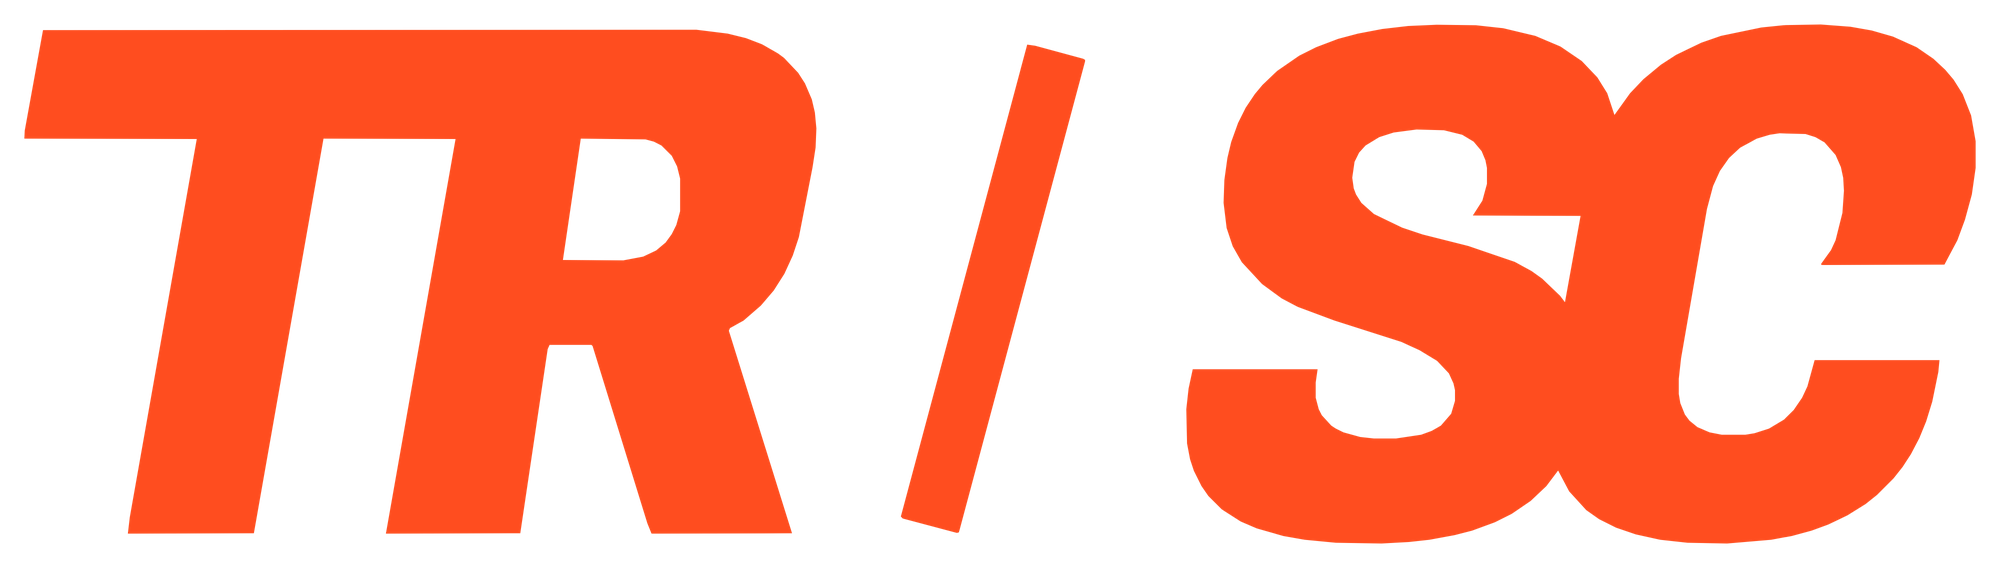
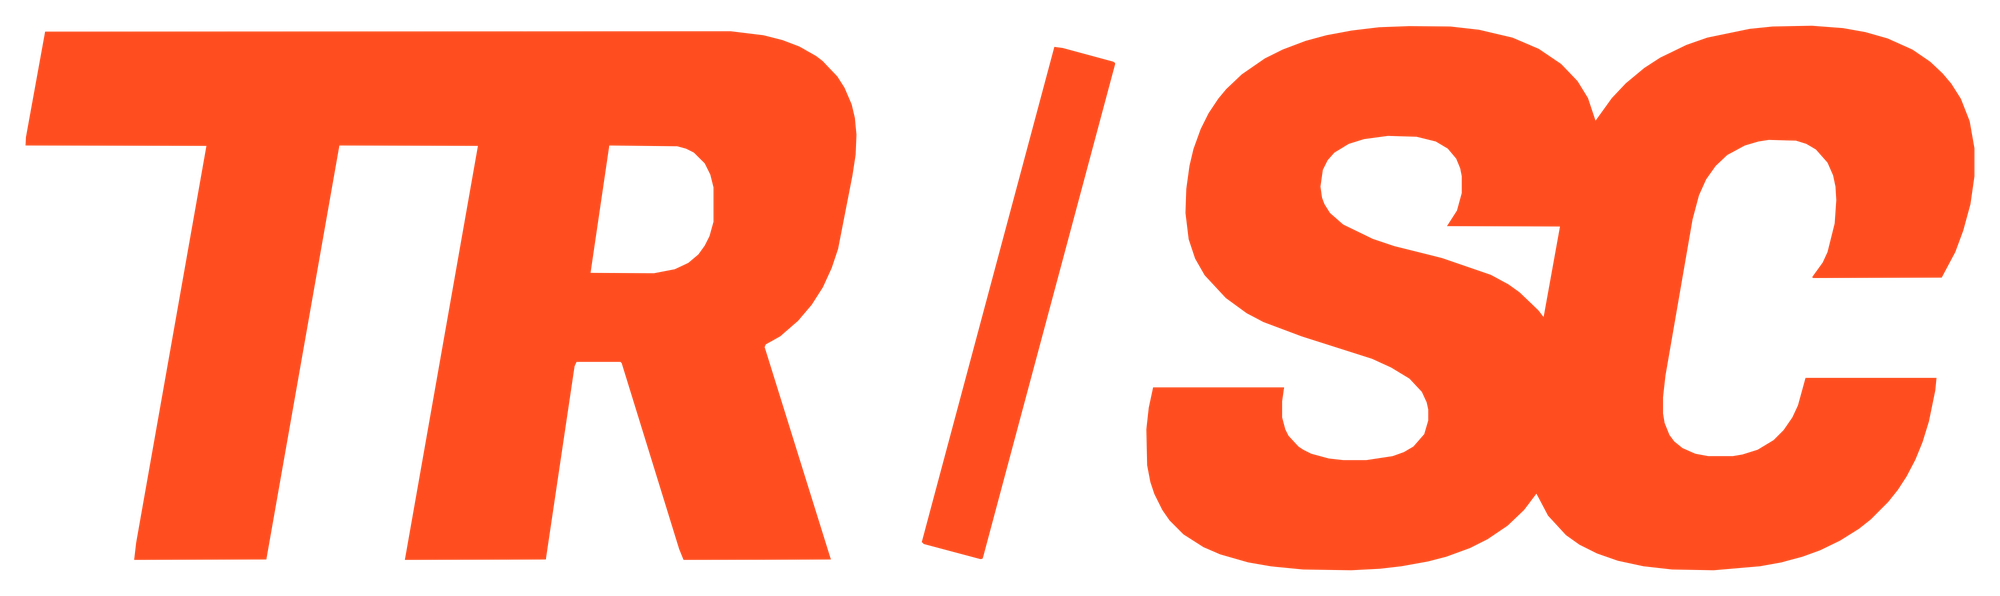
Correct the monogram's slash kerning to match the design source
Diffing the generated assets against a fresh PNG export from the design
tool showed a 5.46% aspect mismatch. Profiling both at a common height
isolated the cause: the letterforms are identical (TR 611 vs 612px, slash
139 vs 142, SC 608 vs 610, all within antialiasing), but the supplied SVG
had lost the kerning around the slash. Gaps measured 65 and 78px against
the source's 48 and 23.

Fixed by translating the slash and SC subpaths in x only, by -7.29 and
-30.74 units, so no letterform is reshaped. Aspect delta is now 0.217%
and the gaps land within 1px of the source. viewBox re-tightened to keep
the designer's 8-unit margin, so PNGs are 2000x596.

Also amends the LOGO principle, which read "NO ICON. THE NAME DOES THE
WORK." That is still true of pictorial icons but read oddly next to a new
compact mark.

diff --git a/brand.html b/brand.html
@@ -1120,8 +1120,8 @@
              the two match. fill-rule="evenodd" is required or the counters
              in the R and S fill solid. -->
         <div class="monogram-large">
-          <svg viewBox="45.5 70.63 656.88 186.5" role="img" aria-label="TR slash SC monogram" xmlns="http://www.w3.org/2000/svg">
-            <path fill="currentColor" fill-rule="evenodd" d="M517.38 78.75L530.25 78.88L539.25 79.88L549.75 82.38L558 85.88L565 90.63L570.13 96L573.38 101.25L575.75 108.38L580.88 101.25L585.25 96.63L591 91.88L596 88.63L604.25 84.63L610.75 82.38L624 79.63L631.25 78.88L643.5 78.63L653.25 79.38L660.25 80.63L667.25 82.63L675 86.13L680.5 89.88L684.38 93.5L687.13 96.75L690.13 101.5L692.88 108.5L694.38 117L694.38 125.75L693.13 134.5L690.88 142.75L688.38 149.5L684.13 157.5L643.75 157.63L643.63 157.25L646.88 152.75L648.38 149.5L650.63 140.5L651.13 133.25L650.88 129L650.13 125.5L648.38 121.5L644.75 117.38L641.75 115.63L638.5 114.63L630 114.38L626.75 114.88L622.5 116.13L617 119.13L613.38 122.5L610.38 126.75L608.13 131.75L606.13 139.25L597.63 188.25L596.88 195L596.88 200L597.38 203L598.88 206.75L600.38 208.75L603 210.88L607 212.63L611 213.38L618.75 213.38L621.75 212.88L626.5 211.38L631.5 208.38L634.63 205.25L637.38 201.25L639.13 197.5L641.5 188.88L682.5 188.88L682.13 192.75L680.13 202.5L678.13 209L675.88 214.5L673.13 219.75L670.38 224L667.38 227.75L662 233.13L658.25 236.13L652.25 239.88L646 242.88L640.5 244.88L634 246.63L627.25 247.88L612.75 249.13L599.75 248.88L590.75 247.88L582.75 246.13L576.25 243.88L570.75 241.13L566.5 238.13L560.88 232L557.25 225.13L553.38 230.25L548.25 235.13L542 239.38L536.5 242.13L529 244.88L523.25 246.38L515 247.88L508.25 248.63L499.25 249.13L484.25 248.88L474 247.88L467 246.63L458.25 244.13L453 241.88L446.75 237.88L442.38 233.5L440.13 230.25L437.63 225.25L436.38 221.5L435.38 216.25L435.13 205L435.88 198.25L437.25 191.88L478.25 191.88L477.63 196.25L477.63 201.25L478.63 205L479.63 207L482.75 210.38L484.25 211.38L486.75 212.63L492.25 214.13L496.75 214.63L504 214.63L512.25 213.38L515.75 212.13L518.75 210.38L522.13 206.5L523.38 202.25L523.38 198.75L522.88 196.5L521.38 193.25L517.5 189.13L511.75 185.63L505.75 182.88L483.75 175.88L471.75 171.38L466.5 168.63L460 163.88L453.38 156.75L450.38 151.5L448.38 145.5L447.38 137.25L447.63 129.75L448.63 122.5L449.88 117.25L452.13 111L454.63 106L457.63 101.5L460.13 98.5L465 93.88L472.25 88.88L477.75 86.13L485 83.38L491.5 81.63L499.5 80.13L508 79.13ZM59.63 80.5L274.25 80.38L284.5 81.63L290.5 83.13L295.75 85.13L301 88.13L303 89.63L307.63 94.5L309.88 98L312.13 103.25L313.13 107.5L313.63 112.75L313.38 119L312.38 125.5L307.88 148.5L305.88 154.5L303.13 160.5L299.63 166L295.38 171L289.75 175.88L285.25 178.38L284.88 179.25L305.63 245.75L259.5 245.88L258.13 242.5L240.13 184.25L239.75 183.88L226 183.88L225.38 185.25L216.38 245.75L172.25 245.88L195.13 116.25L151.75 116.13L128.88 245.75L87.5 245.88L88.13 240.5L110.13 116.25L53.5 116.13L53.63 113.5ZM382.88 85.25L385.5 85.63L401.25 89.88L401.88 90.25L401.88 90.75L360.63 244.75L360.38 245.5L359.75 245.63L342 240.88L341.38 240.25ZM510.75 113.13L503.25 114.13L498.5 115.63L494 118.38L491.88 120.75L490.38 123.75L489.63 129L490.13 132.5L490.88 134.5L492.63 137.25L496.75 140.88L506 145.38L512.75 147.63L527.75 151.38L543 156.63L548.5 159.63L552 162.13L557.88 167.75L559.5 169.88L564.63 141.5L529.25 141.38L532.38 136.5L533.88 131L533.88 125.75L533.38 123.25L532.13 120.25L529.5 117.13L525.75 114.88L519.75 113.38ZM236.25 116.13L230.38 156L250.25 156.13L256.75 154.88L261 152.88L264.13 150.25L266.13 147.5L267.63 144.5L268.88 140L268.88 129.25L267.88 125.25L266.13 121.75L262.75 118.38L260.25 117.13L257.5 116.38Z"/>
+          <svg viewBox="45.5 70.63 626.14 186.5" role="img" aria-label="TR slash SC monogram" xmlns="http://www.w3.org/2000/svg">
+            <path fill="currentColor" fill-rule="evenodd" d="M486.64 78.75L499.51 78.88L508.51 79.88L519.01 82.38L527.26 85.88L534.26 90.63L539.39 96L542.64 101.25L545.01 108.38L550.14 101.25L554.51 96.63L560.26 91.88L565.26 88.63L573.51 84.63L580.01 82.38L593.26 79.63L600.51 78.88L612.76 78.63L622.51 79.38L629.51 80.63L636.51 82.63L644.26 86.13L649.76 89.88L653.64 93.5L656.39 96.75L659.39 101.5L662.14 108.5L663.64 117L663.64 125.75L662.39 134.5L660.14 142.75L657.64 149.5L653.39 157.5L613.01 157.63L612.89 157.25L616.14 152.75L617.64 149.5L619.89 140.5L620.39 133.25L620.14 129L619.39 125.5L617.64 121.5L614.01 117.38L611.01 115.63L607.76 114.63L599.26 114.38L596.01 114.88L591.76 116.13L586.26 119.13L582.64 122.5L579.64 126.75L577.39 131.75L575.39 139.25L566.89 188.25L566.14 195L566.14 200L566.64 203L568.14 206.75L569.64 208.75L572.26 210.88L576.26 212.63L580.26 213.38L588.01 213.38L591.01 212.88L595.76 211.38L600.76 208.38L603.89 205.25L606.64 201.25L608.39 197.5L610.76 188.88L651.76 188.88L651.39 192.75L649.39 202.5L647.39 209L645.14 214.5L642.39 219.75L639.64 224L636.64 227.75L631.26 233.13L627.51 236.13L621.51 239.88L615.26 242.88L609.76 244.88L603.26 246.63L596.51 247.88L582.01 249.13L569.01 248.88L560.01 247.88L552.01 246.13L545.51 243.88L540.01 241.13L535.76 238.13L530.14 232L526.51 225.13L522.64 230.25L517.51 235.13L511.26 239.38L505.76 242.13L498.26 244.88L492.51 246.38L484.26 247.88L477.51 248.63L468.51 249.13L453.51 248.88L443.26 247.88L436.26 246.63L427.51 244.13L422.26 241.88L416.01 237.88L411.64 233.5L409.39 230.25L406.89 225.25L405.64 221.5L404.64 216.25L404.39 205L405.14 198.25L406.51 191.88L447.51 191.88L446.89 196.25L446.89 201.25L447.89 205L448.89 207L452.01 210.38L453.51 211.38L456.01 212.63L461.51 214.13L466.01 214.63L473.26 214.63L481.51 213.38L485.01 212.13L488.01 210.38L491.39 206.5L492.64 202.25L492.64 198.75L492.14 196.5L490.64 193.25L486.76 189.13L481.01 185.63L475.01 182.88L453.01 175.88L441.01 171.38L435.76 168.63L429.26 163.88L422.64 156.75L419.64 151.5L417.64 145.5L416.64 137.25L416.89 129.75L417.89 122.5L419.14 117.25L421.39 111L423.89 106L426.89 101.5L429.39 98.5L434.26 93.88L441.51 88.88L447.01 86.13L454.26 83.38L460.76 81.63L468.76 80.13L477.26 79.13ZM59.63 80.5L274.25 80.38L284.5 81.63L290.5 83.13L295.75 85.13L301 88.13L303 89.63L307.63 94.5L309.88 98L312.13 103.25L313.13 107.5L313.63 112.75L313.38 119L312.38 125.5L307.88 148.5L305.88 154.5L303.13 160.5L299.63 166L295.38 171L289.75 175.88L285.25 178.38L284.88 179.25L305.63 245.75L259.5 245.88L258.13 242.5L240.13 184.25L239.75 183.88L226 183.88L225.38 185.25L216.38 245.75L172.25 245.88L195.13 116.25L151.75 116.13L128.88 245.75L87.5 245.88L88.13 240.5L110.13 116.25L53.5 116.13L53.63 113.5ZM375.59 85.25L378.21 85.63L393.96 89.88L394.59 90.25L394.59 90.75L353.34 244.75L353.09 245.5L352.46 245.63L334.71 240.88L334.09 240.25ZM480.01 113.13L472.51 114.13L467.76 115.63L463.26 118.38L461.14 120.75L459.64 123.75L458.89 129L459.39 132.5L460.14 134.5L461.89 137.25L466.01 140.88L475.26 145.38L482.01 147.63L497.01 151.38L512.26 156.63L517.76 159.63L521.26 162.13L527.14 167.75L528.76 169.88L533.89 141.5L498.51 141.38L501.64 136.5L503.14 131L503.14 125.75L502.64 123.25L501.39 120.25L498.76 117.13L495.01 114.88L489.01 113.38ZM236.25 116.13L230.38 156L250.25 156.13L256.75 154.88L261 152.88L264.13 150.25L266.13 147.5L267.63 144.5L268.88 140L268.88 129.25L267.88 125.25L266.13 121.75L262.75 118.38L260.25 117.13L257.5 116.38Z"/>
           </svg>
         </div>
         <div class="wordmark-meta">TR/SC &middot; THE COMPACT MARK</div>
@@ -1166,7 +1166,7 @@
         <div class="detail-card">
           <span class="detail-label">LOGO</span>
           <span class="detail-value" style="font-family: 'Fugaz One', 'Arial Black', sans-serif; letter-spacing: -0.14em; font-size: 24px;">TRACKRAT</span>
-          <span class="detail-note">WORDMARK IN FUGAZ ONE, &minus;14% LETTER SPACING. NO ICON. THE NAME DOES THE WORK.</span>
+          <span class="detail-note">WORDMARK IN FUGAZ ONE, &minus;14% LETTER SPACING. NO PICTORIAL ICON. THE NAME DOES THE WORK, OR THE TR/SC MONOGRAM WHERE SPACE IS TIGHT.</span>
         </div>
         <div class="detail-card">
           <span class="detail-label">COLOR</span>
